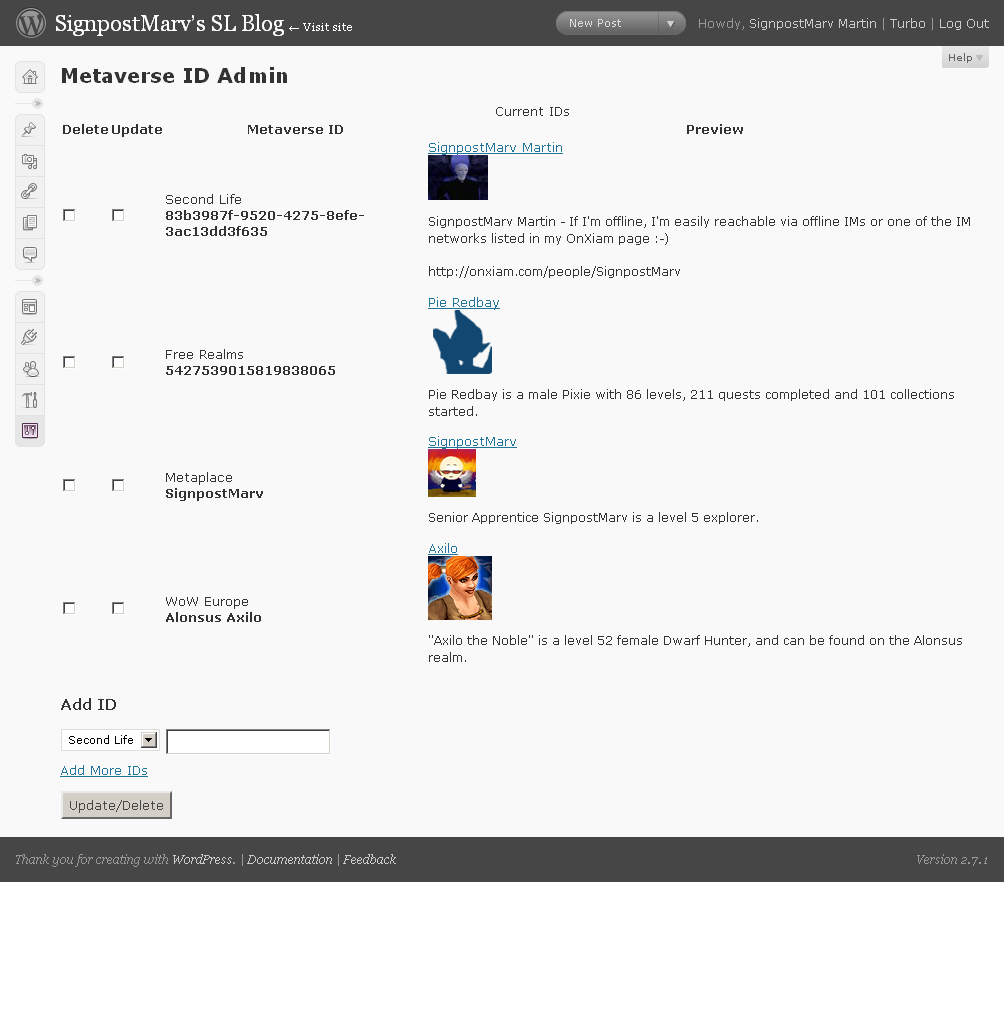
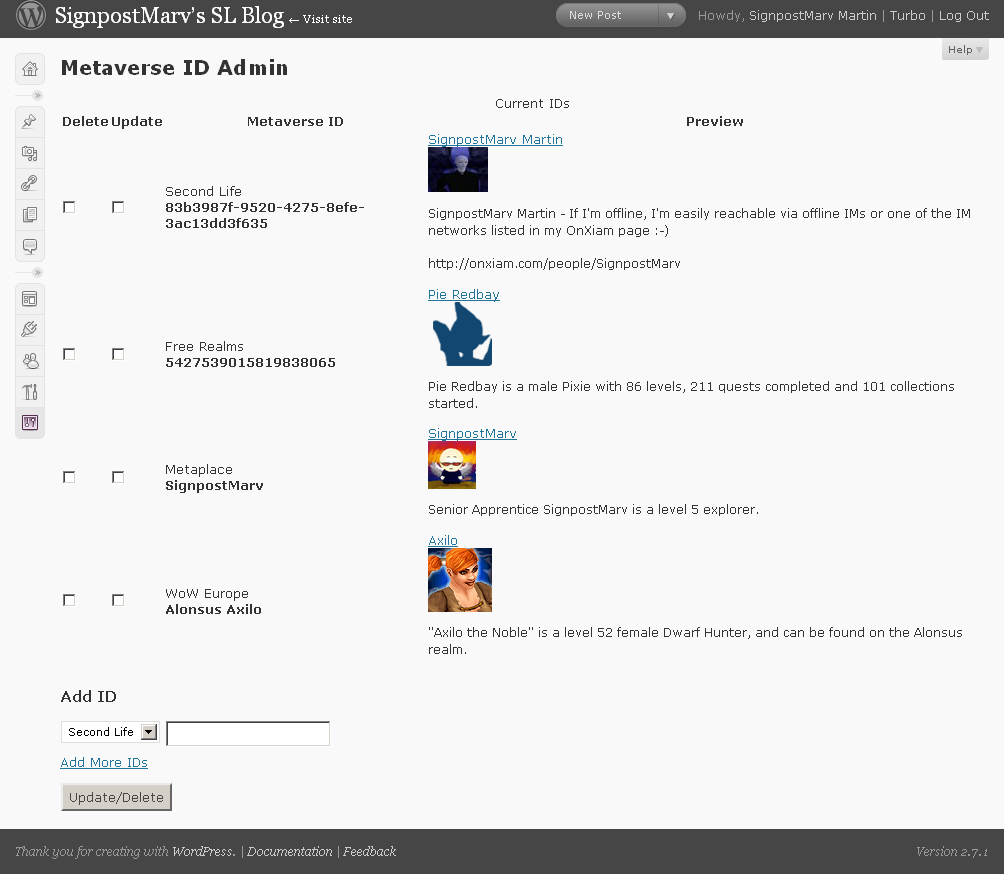
Switching from hListing to hResume, adding in guilds/groups as "affiliations".
git-svn-id: http://svn.wp-plugins.org/metaverse-id/trunk@119851 b8457f37-d9ea-0310-8a92-e5e31aec5664

diff --git a/mv-id.php b/mv-id.php
@@ -3,7 +3,7 @@
 Plugin Name: Metaverse ID
 Plugin URI: http://blog.signpostmarv.name/mv-id/
 Description: Display your identity from around the metaverse!
-Version: 0.6.1
+Version: 0.7
 Author: SignpostMarv Martin
 Author URI: http://blog.signpostmarv.name/
  Copyright 2009 SignpostMarv Martin  (email : mv-id.wp@signpostmarv.name)
@@ -29,17 +29,17 @@ interface mv_id_vcard_funcs
 	public function description();
 	public function url();
 	public static function is_id_valid($id);
+}
+interface mv_id_vcard_widget
+{
 	public static function factory($id);
 	public static function widget(array $args);
+	public static function affiliations_label();
 	public static function id_format();
 }
-abstract class mv_id_vcard implements mv_id_vcard_funcs
+class mv_id_vcard_affiliation implements mv_id_vcard_funcs
 {
-	protected $uid;
-	protected $name;
-	protected $image;
-	protected $description;
-	public function __construct($uid,$name,$image=null,$description=null,$url=null)
+	public function __construct($name,$url=null,$image=null,$description=null,$uid=null)
 	{
 		$this->uid = $uid;
 		$this->name = $name;
@@ -75,26 +75,114 @@ abstract class mv_id_vcard implements mv_id_vcard_funcs
 	{
 		return sprintf(constant(get_class($this) . '::sprintf_img'),$this->img());
 	}
+	public static function is_id_valid($id)
+	{
+		return $id === null;
+	}
+}
+abstract class mv_id_vcard implements mv_id_vcard_funcs, mv_id_vcard_widget
+{
+	protected $uid;
+	protected $name;
+	protected $image;
+	protected $description;
+	protected $affiliations;
+	public function __construct($uid,$name,$image=null,$description=null,$url=null,array $affiliations=null)
+	{
+		$this->uid = $uid;
+		$this->name = $name;
+		$this->image = $image;
+		$this->description = $description;
+		$this->url = $url;
+		if(empty($affiliations) === false)
+		{
+			foreach($affiliations as $k=>$affiliation)
+			{
+				if(($affiliation instanceof mv_id_vcard_affiliation) === false)
+				{
+					unset($affiliations[$k]);
+				}
+			}
+			if(empty($affiliations) === false)
+			{
+				$this->affiliations = $affiliations;
+			}
+		}
+	}
+	public function uid()
+	{
+		return $this->uid;
+	}
+	public function name()
+	{
+		return $this->name;
+	}
+	public function img()
+	{
+		return $this->image;
+	}
+	public function description()
+	{
+		return $this->description;
+	}
+	public function affiliations()
+	{
+		return $this->affiliations;
+	}
+	public function url()
+	{
+		if(isset($this->url) === false)
+		{
+			$this->url = sprintf(constant(get_class($this) . '::sprintf_url'),$this->uid());
+		}
+		return $this->url;
+	}
+	public function image_url()
+	{
+		return sprintf(constant(get_class($this) . '::sprintf_img'),$this->img());
+	}
+	public static function affiliations_label()
+	{
+		return null;
+	}
 	public static function output(mv_id_vcard $vcard)
 	{
 ?>
-					<div class="reviewer item vcard">
-						<a class="url fn summary" rel="me" href="<?php echo $vcard->url(); ?>"><?php echo htmlentities2($vcard->name()); ?></a><br />
-						<span class="uid" style="display:none;"><?php echo $vcard->uid(); ?></span>
+					<div class="hresume">
+						<address class="contact vcard">
+							<a class="url fn summary" rel="me" href="<?php echo $vcard->url(); ?>"><?php echo htmlentities2($vcard->name()); ?></a><br />
+							<span class="uid" style="display:none;"><?php echo $vcard->uid(); ?></span>
 <?php
 					if($vcard->img() !== null)
 					{
 ?>
-						<img class="photo" src="<?php echo $vcard->image_url(); ?>" alt="<?php echo htmlentities2($vcard->name()); ?>"  />
+							<img class="photo" src="<?php echo $vcard->image_url(); ?>" alt="<?php echo htmlentities2($vcard->name()); ?>"  />
 <?php			
 					}
 ?>
+						</address>
 <?php
 					if($vcard->description() !== null)
 					{
 ?>
-						<p class="description"><?php echo str_replace("\n","<br />\n",htmlentities2($vcard->description())); ?></p>
+						<p class="summary"><?php echo str_replace("\n","<br />\n",htmlentities2($vcard->description())); ?></p>
 <?php			
+					}
+					if(is_string(call_user_func(get_class($vcard) . '::affiliations_label')) && is_array($vcard->affiliations()))
+					{
+?>
+						<strong><?php echo htmlentities2(call_user_func(get_class($vcard) . '::affiliations_label')); ?></strong>
+						<ul>
+<?php
+						foreach($vcard->affiliations() as $affiliation)
+						{
+?>
+							<li class="affiliation vcard"><a class="fn url org" href="<?php echo $affiliation->url(); ?>"><?php echo htmlentities($affiliation->name(),ENT_QUOTES,'UTF-8'); ?></a></li>
+<?php
+						}
+?>
+						</ul>
+<?php
 					}
 ?>
 					</div>
@@ -403,6 +491,20 @@ ON DUPLICATE KEY UPDATE
 	public static function admin_actions()
 	{
 		add_options_page('Metaverse ID','Metaverse ID',1,'mv-id','mv_id_plugin::admin');
+		add_filter('plugin_action_links', 'mv_id_plugin::plugin_actions', 10, 2);
+	}
+	public static function plugin_actions($links, $file) {
+		static $this_plugin;
+		if(isset($this_plugin) === false)
+		{
+			$this_plugin = plugin_basename(__FILE__);
+		}
+		if($file === $this_plugin)
+		{
+			$settings_link = '<a href="options-general.php?page=mv-id" style="font-weight:bold;">Manage</a>';
+			$links[] = $settings_link;
+		}
+		return $links;
 	}
 	public static function admin()
 	{
@@ -427,7 +529,7 @@ ON DUPLICATE KEY UPDATE
 			{
 				list($metaverse,$id) = explode('::',$update_this);
 				$vcard = call_user_func_array(self::$metaverse_classes[$metaverse] . '::factory',array($id));
-				if($vcard instanceof mv_id_vcard_funcs)
+				if($vcard instanceof mv_id_vcard_widget)
 				{
 					self::cache($metaverse,$id,$vcard);
 				}
@@ -462,7 +564,7 @@ ON DUPLICATE KEY UPDATE
 				<td><input type="checkbox" name="update[]" value="<?php echo $id->metaverse,'::',$id->id; ?>" title="Update '<?php echo $id->id; ?>' ?" <?php if($vcard === NULL){ ?>checked="checked"<?php } ?> /></td>
 				<td><?php echo self::nice_name($id->metaverse); ?><br /><strong><?php echo $id->id; ?></strong></td>
 				<td><?php
-				if($vcard instanceof mv_id_vcard_funcs)
+				if($vcard instanceof mv_id_vcard_widget)
 				{
 					mv_id_vcard::output($vcard);
 				}

diff --git a/metaverses/lotro.php b/metaverses/lotro.php
@@ -3,7 +3,8 @@ class mv_id_vcard_lotro extends mv_id_vcard
 {
 	const sprintf_url = '#';
 	const sprintf_img = '%s';
-	const sprintf_description = '\'%1$s of %2$s\' is a level %3$u %6$s %4$s who hails from %5$s%7$s.';
+	const sprintf_description = '\'%1$s of %2$s\' is a level %3$u %6$s %4$s who hails from %5$s.';
+	const sprintf_kinship_url = 'http://my.lotro.com/kinship-%s-%s/';
 	public static function id_format()
 	{
 		return '\'Username of Realm\', e.g. \'Foo of Bar\'';
@@ -16,105 +17,9 @@ class mv_id_vcard_lotro extends mv_id_vcard
 	{
 		return sprintf($sprintf_url,(($level == 80) ? '80' : 'default'),$genderId,$raceId,$classId);
 	}
-	protected static function scrape($url)
+	public static function affiliations_label()
 	{
-		$ch = curl_init($url);
-		curl_setopt_array($ch,array(
-			CURLOPT_FOLLOWLOCATION => true,
-			CURLOPT_RETURNTRANSFER => true,
-		));
-		$data = curl_exec($ch);
-		curl_close($ch);
-		$doc = mv_id_vcard::DOMDocument($data);
-		if($doc instanceof DOMDocument)
-		{
-			unset($data);
-			$xpath = mv_id_vcard::XPath($doc,'./head/title');
-			if($xpath instanceof DOMXPath)
-			{
-				list($name,$realm) = explode(' - ',trim($xpath->item(0)->nodeValue));
-			}
-			else
-			{
-				return false;
-			}
-			$xpath = mv_id_vcard::XPath($doc,'//td[@id="pprofile_avatar"]/div[@class="avatar"]/img[@class="avatar"]');
-			if($xpath instanceof DOMXPath)
-			{
-				$image = $xpath->item(0)->getAttribute('src');
-			}
-			else
-			{
-				return false;
-			}
-			$xpath = mv_id_vcard::XPath($doc,'//div[@id="char_race"]');
-			if($xpath instanceof DOMXPath)
-			{
-				$race = $xpath->item(0)->nodeValue;
-				switch($race)
-				{
-					case 'Race of Man':
-						$race = 'human';
-					break;
-					case 'Dwarf':
-						$race = 'dwarven';
-					break;
-				}
-			}
-			else
-			{
-				return false;
-			}
-			$xpath = mv_id_vcard::XPath($doc,'//div[@id="char_nat"]');
-			if($xpath instanceof DOMXPath)
-			{
-				$nat = $xpath->item(0)->nodeValue;
-			}
-			else
-			{
-				return false;
-			}
-			$xpath = mv_id_vcard::XPath($doc,'//div[@id="char_class"]');
-			if($xpath instanceof DOMXPath)
-			{
-				$class = $xpath->item(0)->nodeValue;
-			}
-			else
-			{
-				return false;
-			}
-			$xpath = mv_id_vcard::XPath($doc,'//div[@id="char_level"]');
-			if($xpath instanceof DOMXPath)
-			{
-				$level = $xpath->item(0)->nodeValue;
-			}
-			else
-			{
-				return false;
-			}
-			$xpath = mv_id_vcard::XPath($doc,'//a[starts-with(@href,"http://my.lotro.com/kinship-elendilmir")]');
-			if($xpath instanceof DOMXPath)
-			{
-				$level = $xpath->item(0)->nodeValue;
-				if($kinship->length !== 1)
-				{
-					$kinship = false;
-				}
-				else
-				{
-					$kinship = $kinship->item(0)->nodeValue;
-				}
-			}
-			else
-			{
-				return false;
-			}
-			$description = sprintf(self::sprintf_description,$name,$realm,$level,$class,$nat,$race,$kinship ? '. ' . $name . ' has a kinship with \'' . $kinship . '\'' : '');
-		}
-		else
-		{
-			return false;
-		}
+		return 'Kinship';
 	}
 	public static function factory($id)
 	{
@@ -211,8 +116,12 @@ class mv_id_vcard_lotro extends mv_id_vcard
 				{
 					return false;
 				}
-				$description = sprintf(self::sprintf_description,$name,$realm,$level,$class,$nat,$race,$kinship ? '. ' . $name . ' has a kinship with \'' . $kinship . '\'' : '');
-				return new self(sprintf('%s_of_%s',$name,$realm),$name,$image,$description,$url);
+				if($kinship !== false)
+				{
+					$kinship = new mv_id_vcard_affiliation($kinship,sprintf(self::sprintf_kinship_url,$realm,str_replace(' ','_',strtolower($kinship))));
+				}
+				$description = sprintf(self::sprintf_description,$name,$realm,$level,$class,$nat,$race);
+				return new self(sprintf('%s_of_%s',$name,$realm),$name,$image,$description,$url,$kinship ? array($kinship) : null);
 			}
 			else
 			{

diff --git a/metaverses/wow.php b/metaverses/wow.php
@@ -15,6 +15,10 @@ abstract class mv_id_vcard_wow extends mv_id_vcard
 	{
 		return sprintf($sprintf_url,(($level == 80) ? '80' : 'default'),$genderId,$raceId,$classId);
 	}
+	public static function affiliations_label()
+	{
+		return 'Guild';
+	}
 	protected static function scrape($url)
 	{
 		$ch = curl_init($url);
@@ -41,7 +45,11 @@ abstract class mv_id_vcard_wow extends mv_id_vcard
 				}
 				$description = '"' . (string)$prefix . (string)$name . (string)$suffix . '" is a level ' . (string)$level . ' ' . strtolower((string)$gender) . ' ' . (string)$race . ' ' . (string)$class . ', and can be found on the ' . (string)$realm . ' realm.';
 				$url = str_replace('&n=','&amp;n=',$url);
-				return array((string)$name,(string)$description,(string)$genderId,(string)$raceId,(string)$classId,(string)$level,$url);
+				if(isset($guildName) && empty($guildName) === false)
+				{
+					$guild = new mv_id_vcard_affiliation((string)$guildName,substr($url,0,strpos($url,'/character-sheet.xml')) . '/guild-info.xml?r=' . (string)$realm . '&amp;gn=' . urlencode((string)$guildName));
+				}
+				return array((string)$name,(string)$description,(string)$genderId,(string)$raceId,(string)$classId,(string)$level,$url,$guild);
 			}
 			else
 			{
@@ -66,7 +74,8 @@ class mv_id_vcard_wow_eu extends mv_id_vcard_wow
 			{
 				list($name,$description,$genderId,$raceId,$classId,$level,$url) = $data;
 				$image = self::format_image_url('http://eu.wowarmory.com/images/portraits/wow-%s/%u-%u-%u.gif',$genderId,$raceId,$classId,$level);
-				return new self($id,$name,$image,$description,$url);
+				$guild = isset($data[7]) ? array($data[7]) : null;
+				return new self($id,$name,$image,$description,$url,$guild);
 			}
 			else
 			{
@@ -95,7 +104,8 @@ class mv_id_vcard_wow_us extends mv_id_vcard_wow
 			{
 				list($name,$description,$genderId,$raceId,$classId,$level,$url) = $data;
 				$image = self::format_image_url('http://www.wowarmory.com/images/portraits/wow-%s/%u-%u-%u.gif',$genderId,$raceId,$classId,$level);
-				return new self($id,$name,$image,$description);
+				$guild = isset($data[7]) ? array($data[7]) : null;
+				return new self($id,$name,$image,$description,$url,$guild);
 			}
 			else
 			{
